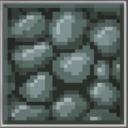
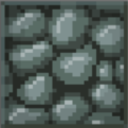
add rock wall

diff --git a/src/obstacles/WallGround.java b/src/obstacles/WallGround.java
@@ -14,7 +14,7 @@ public class WallGround extends Wall {
 
     public WallGround(GamePanel gp, int x, int y, int sizeX, int sizeY) {
         super(gp, x, y, sizeX, sizeY);
-        img = Utilz.GetImage("");
+        img = Utilz.GetImage("/res/wall/rockblock.png");
     }
 
     @Override
@@ -50,8 +50,7 @@ public class WallGround extends Wall {
 
     @Override
     public void draw(Graphics g2) {
-        g2.setColor(Color.black);
-        g2.fillRect((int) x, (int) y, width, height);
+        g2.drawImage(img, x, y, gp.tileSize, gp.tileSize, null);
     }
 
 }
